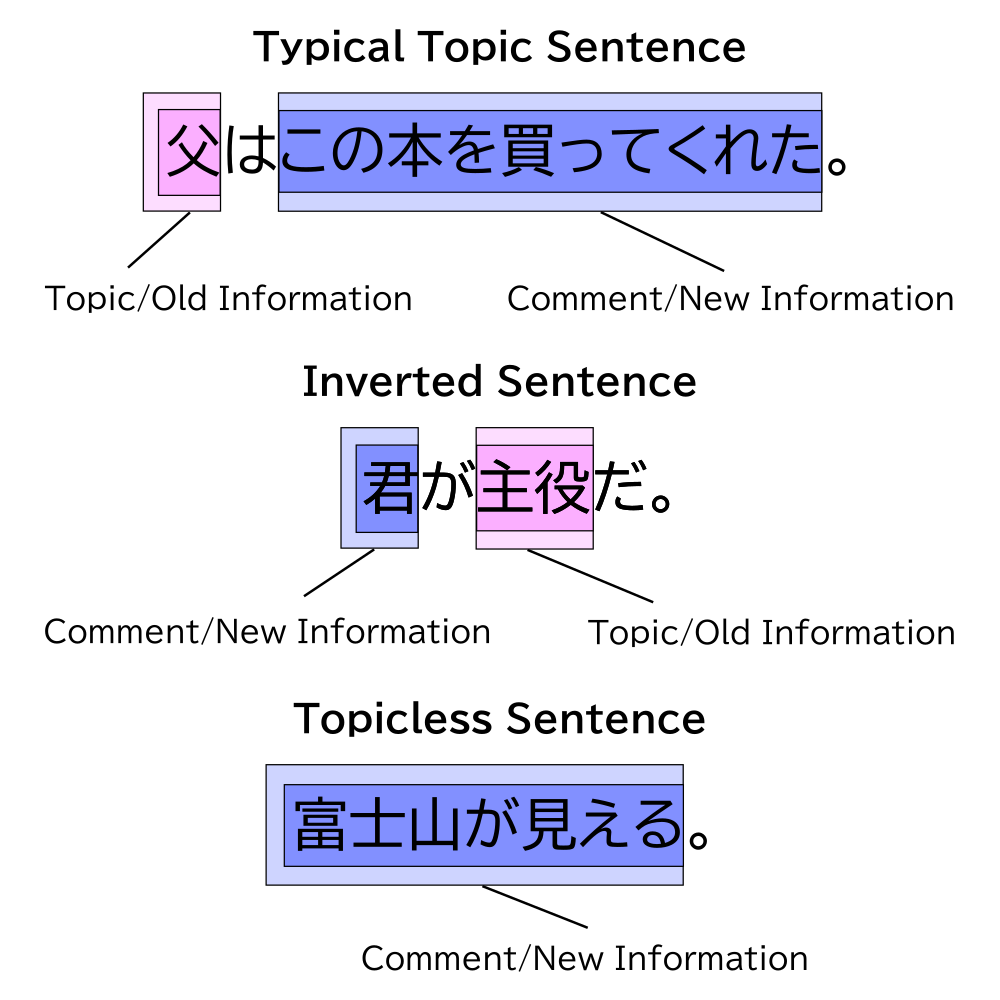
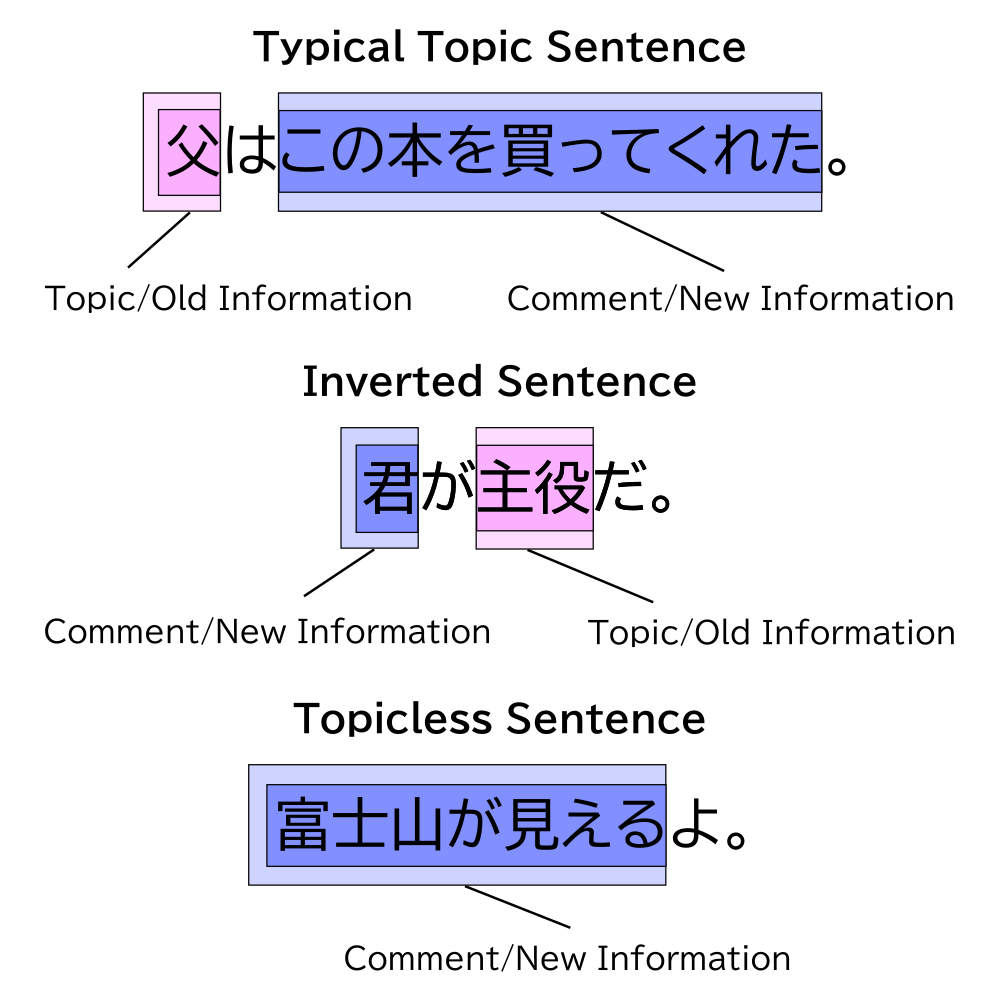
fix error in newoldinfo

Changed region(s): [[0.248, 0.744, 0.744, 0.899], [0.341, 0.899, 0.806, 0.992]]

diff --git a/_posts/2024-08-24-wa-ga-topic-presence.md b/_posts/2024-08-24-wa-ga-topic-presence.md
@@ -194,7 +194,7 @@ The following is a chart marking the topic, comment, new information, and old in
 ![Locations of New/Old Information in topic sentences, inverted sentences, and topicless sentences.](assets/img/newoldinfo.png)
 
 New information may sometimes be familiar information, such as "君" in the sentence ｢君が主役だ。｣.
-Thus, the two topic sentences fit the generalization that "は marks old information, and が marks new information." However, the topicless sentence isn't so straightforward. The principle of old/new information functions differently in topicless sentences. In the example, there is no nuance that we are emphasizing "富士山" as new information in relation to "見える".[^7] However, it is nonetheless marked by が. This is not an exceptional instance. The が in this sentence is not exclusive, but subject-marking. We must recognize the **entirety** of the sentence ｢富士山が見える。｣ as new information. This makes grammatical sense since many topicless sentences serve to describe some spontaneous event or to change the subject. 
+Thus, the two topic sentences fit the generalization that "は marks old information, and が marks new information." However, the topicless sentence isn't so straightforward. The principle of old/new information functions differently in topicless sentences. In the example, there is no nuance that we are emphasizing "富士山" as new information in relation to "見える".[^7] However, it is nonetheless marked by が. This is not an exceptional instance. The が in this sentence is not exclusive, but subject-marking. We must recognize the **entirety** of the sentence ｢富士山が見えるよ。｣ as new information. This makes grammatical sense since many topicless sentences serve to describe some spontaneous event or to change the subject. 
 
 [^7]: The exclusive interpretation (marking "富士山" as new information) is sometimes possible, but this is not usually the case.
 
